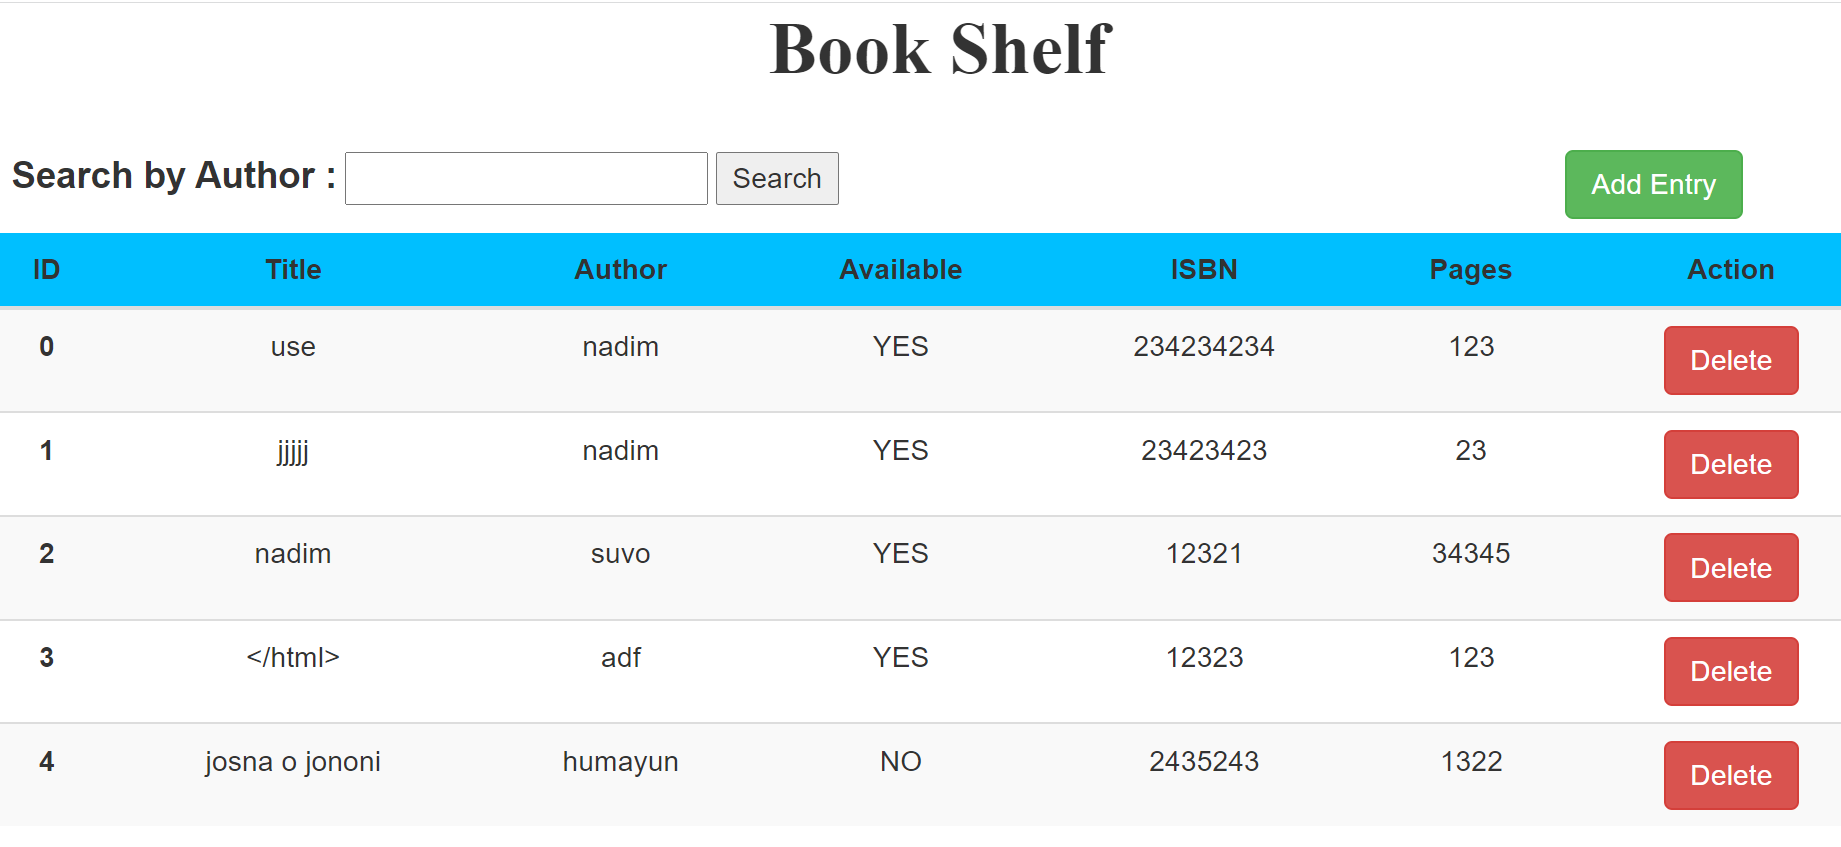
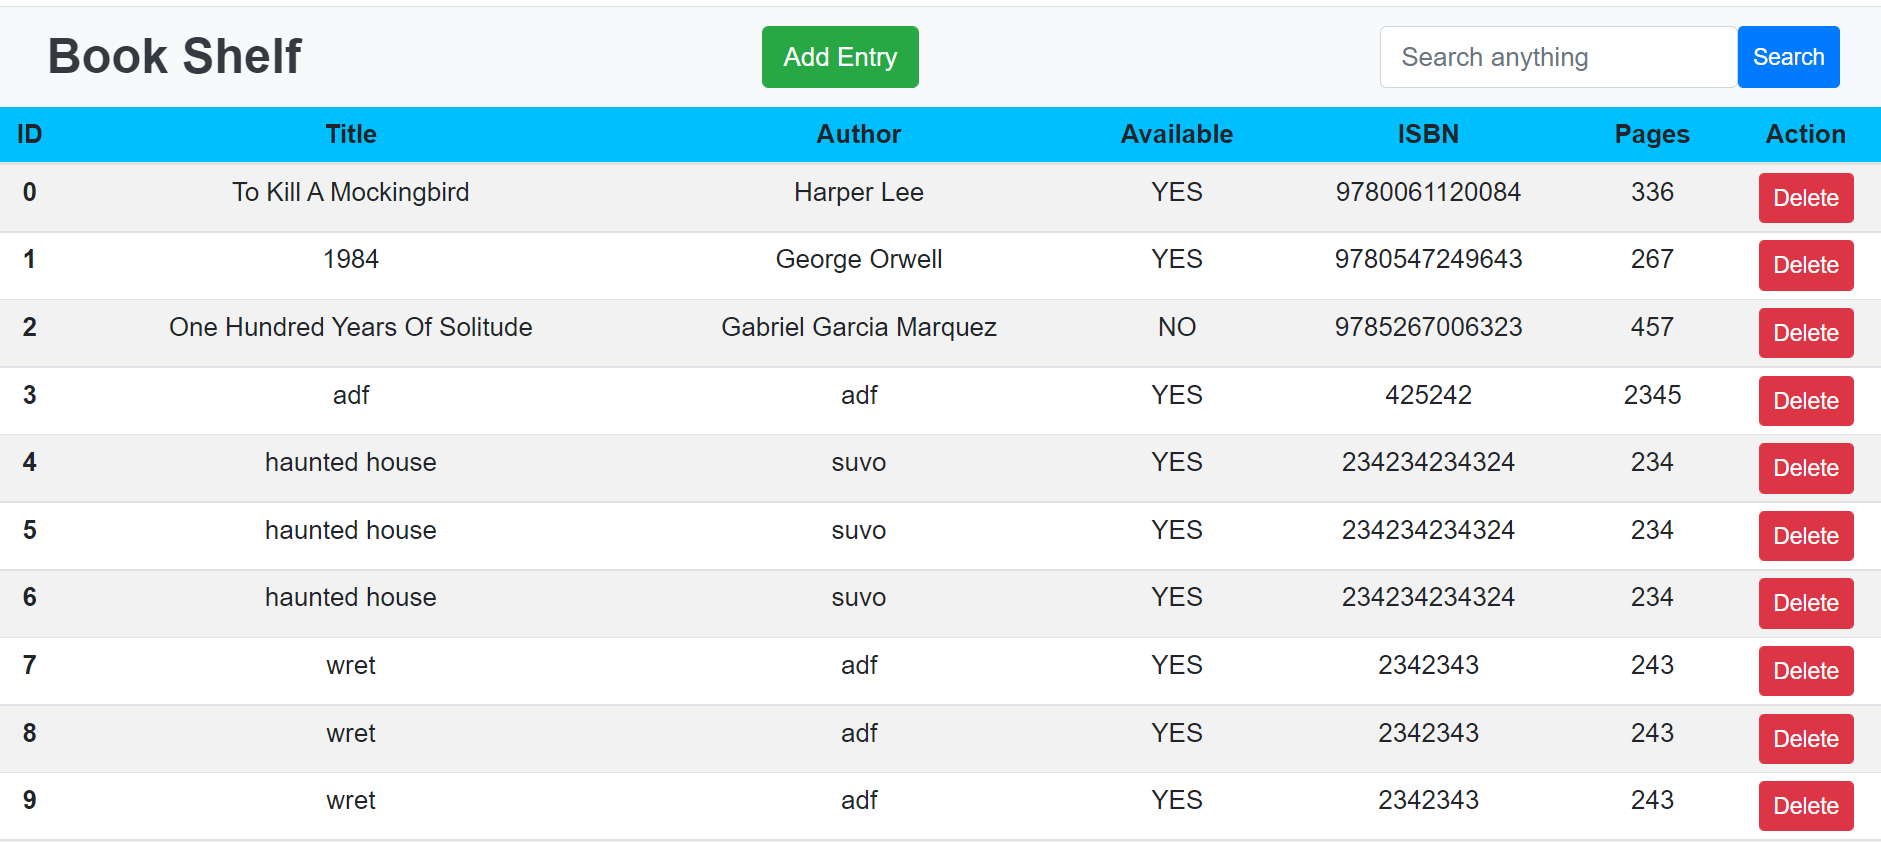
many chnages on UI

diff --git a/navbar.html b/navbar.html
@@ -1,0 +1,12 @@
+<nav class="sticky-top navbar navbar-light navbar-style bg-light">
+    <div class="container-fluid">
+        <a href="index.php" class="title text-dark"><b>Book Shelf</b></a>
+        <a class="add-entry" href="<?php echo 'create.php' ?>">
+            <button class="btn btn-success">Add Entry</button>
+        </a>
+        <form class="d-flex" action="search.php" method="POST">
+            <input class="form-control me-2" type="search" name="search" placeholder="Search anything" aria-label="Search">
+            <button class="btn btn-primary btn-sm" type="submit">Search</button>
+        </form>
+    </div>
+</nav>

diff --git a/style.css b/style.css
@@ -8,19 +8,22 @@
 }
 
 .title{
+  text-decoration: none;
+  font-family: 'Times New Roman', Times, serif;
+  font-size: 30px;
+}
+
+.title-create{
   text-align:center;
   font-family: 'Times New Roman', Times, serif;
   font-weight: bold;
   margin-bottom: 30px;
 }
 
-.search-bar{
-  width: 50%;
-  margin: auto;
-  margin-left: 10px;
-  margin-bottom: 10px;
-  float:left
+.table-container{
+  margin-top: -1px;
 }
+
 
 .add-entry{
   justify-content: left;
@@ -62,4 +65,10 @@
 
 .form-container{
   margin: 0px ;
+}
+
+.form-subm{
+  display: flex;
+  flex-direction: row;
+  justify-content: center;
 }

diff --git a/search.php b/search.php
@@ -15,13 +15,16 @@ $data = '';
 $entries = array();
 
 if (isset($_POST['search'])) {
-    $key1 = $_POST['search'];
+    $search_key = $_POST['search'];
     $option = 'title'; //$_POST['search_by'];
 
     foreach ($db as $key => $obj) :
-        if (strpos($obj[$option], $key1) !== false) {
-            array_push($entries, $db[$key]);
-        }
+        foreach ($obj as $key1 => $obj1) :
+            if (strpos(strtoupper($obj1), strtoupper($search_key)) !== false) {
+                array_push($entries, $db[$key]);
+                break; // add one entry for one list
+            }
+        endforeach;
     endforeach;
 }
 
@@ -37,14 +40,16 @@ if (isset($_POST['search'])) {
     <meta charset="UTF-8">
     <title>Book Store</title>
     <link rel="stylesheet" type="text/css" href="style.css" />
-    <link rel="stylesheet" href="https://maxcdn.bootstrapcdn.com/bootstrap/3.3.7/css/bootstrap.min.css" integrity="sha384-BVYiiSIFeK1dGmJRAkycuHAHRg32OmUcww7on3RYdg4Va+PmSTsz/K68vbdEjh4u" crossorigin="anonymous">
+    <link rel="stylesheet" href="https://stackpath.bootstrapcdn.com/bootstrap/4.4.1/css/bootstrap.min.css" integrity="sha384-Vkoo8x4CGsO3+Hhxv8T/Q5PaXtkKtu6ug5TOeNV6gBiFeWPGFN9MuhOf23Q9Ifjh" crossorigin="anonymous">    
 </head>
 
 <body>
+
+    <?php include 'navbar.html';?>
     
-    <h2 class="title">Search Results ...</h2>
+    <h5 class="title-search text-success mt-2 mb-0">Search results for : <?php echo $search_key;?></h5>
     
-    <div>
+    <div class="">
         <table class="table-main table table-striped table-sm">
             <thead class="table-head">
                 <tr>
@@ -74,15 +79,11 @@ if (isset($_POST['search'])) {
     </div>
 
     <!-- bootstrap scripts -->
-
-    <script src="https://code.jquery.com/jquery-3.4.1.slim.min.js"
-        integrity="sha384-J6qa4849blE2+poT4WnyKhv5vZF5SrPo0iEjwBvKU7imGFAV0wwj1yYfoRSJoZ+n" crossorigin="anonymous">
+    <script src="https://code.jquery.com/jquery-3.4.1.slim.min.js" integrity="sha384-J6qa4849blE2+poT4WnyKhv5vZF5SrPo0iEjwBvKU7imGFAV0wwj1yYfoRSJoZ+n" crossorigin="anonymous">
     </script>
-    <script src="https://cdn.jsdelivr.net/npm/popper.js@1.16.0/dist/umd/popper.min.js"
-        integrity="sha384-Q6E9RHvbIyZFJoft+2mJbHaEWldlvI9IOYy5n3zV9zzTtmI3UksdQRVvoxMfooAo" crossorigin="anonymous">
+    <script src="https://cdn.jsdelivr.net/npm/popper.js@1.16.0/dist/umd/popper.min.js" integrity="sha384-Q6E9RHvbIyZFJoft+2mJbHaEWldlvI9IOYy5n3zV9zzTtmI3UksdQRVvoxMfooAo" crossorigin="anonymous">
     </script>
-    <script src="https://stackpath.bootstrapcdn.com/bootstrap/4.4.1/js/bootstrap.min.js"
-        integrity="sha384-wfSDF2E50Y2D1uUdj0O3uMBJnjuUD4Ih7YwaYd1iqfktj0Uod8GCExl3Og8ifwB6" crossorigin="anonymous">
+    <script src="https://stackpath.bootstrapcdn.com/bootstrap/4.4.1/js/bootstrap.min.js" integrity="sha384-wfSDF2E50Y2D1uUdj0O3uMBJnjuUD4Ih7YwaYd1iqfktj0Uod8GCExl3Og8ifwB6" crossorigin="anonymous">
     </script>
 </body>
 

diff --git a/index.php b/index.php
@@ -17,27 +17,28 @@ if (file_exists('db.json')) {
 
 <head>
     <meta charset="UTF-8">
-    <title>Book Store</title>
+    <title>Book Shelf</title>
     <link rel="stylesheet" type="text/css" href="style.css" />
     <link rel="stylesheet" href="https://stackpath.bootstrapcdn.com/bootstrap/4.4.1/css/bootstrap.min.css" integrity="sha384-Vkoo8x4CGsO3+Hhxv8T/Q5PaXtkKtu6ug5TOeNV6gBiFeWPGFN9MuhOf23Q9Ifjh" crossorigin="anonymous">
 </head>
 
 <body>
 
-    <h1 class="title">Book Shelf</h1>
+    <?php include 'navbar.html';?>
+
+  
+    <!-- <h1 class="title">Book Shelf</h1> -->
 
 
-    <div class="container search-pr">
+    <!-- <div class="container search-pr">
         <div class="row">
-            <div class="col-sm-4">
-            <form action="search.php" method="POST">
-                <div class="input-group mb-3">
-                    <input type="text" name="search" placeholder="Search by title" >
-                    <input type="submit" class="btn btn-primary" type="button" value="Search"></input>
-                </div>
-            </form>
-            </div>
-            <div class="col-sm-6">
+            <div class="col-sm-10">
+                <form action="search.php" method="POST">
+                    <div class="input-group mb-3">
+                        <input type="text" name="search" placeholder="Search anything">
+                        <input type="submit" class="btn btn-primary" type="button" value="Search"></input>
+                    </div>
+                </form>
             </div>
             <div class="col-sm-2">
                 <a class="add-entry" href="<?php echo 'create.php' ?>">
@@ -45,26 +46,8 @@ if (file_exists('db.json')) {
                 </a>
             </div>
         </div>
-    </div>
-
-    <!-- 
-    <div class="search-bar ">
-        <form action="search.php" method="post">
-
-            <label style="font-size: large;">Search by Author : </label>
-            <input type="text" class="input-field" name="search" />
-            <input type="submit" class="input-field" value="Search" />
-        </form>
-    </div>
-
-    <div class="create-btn">
-        <a href="<?php echo 'create.php' ?>">
-            <button class="btn btn-success">Add Entry</button>
-        </a>
     </div> -->
-
-    <br>
-    <div>
+    <div class="table-container">
         <table class="table-main table table-striped table-sm">
             <thead class="table-head">
                 <tr>

diff --git a/create.php b/create.php
@@ -23,6 +23,8 @@ if (isset($_GET['title'])) {
     $db_enc = json_encode($db);
     file_put_contents('db.json', $db_enc);
 
+    $added = true;
+
     header('Location: index.php');
 }
 
@@ -41,7 +43,9 @@ if (isset($_GET['title'])) {
 
 <body class="create-body">
 
-    <h1 class="title"> Enter book informations</h1>
+    <?php include 'navbar.html';?>
+
+    <h1 class="title-create"> Enter book informations</h1>
 
     <!-- Styled -->
 
@@ -79,7 +83,7 @@ if (isset($_GET['title'])) {
             </div>
 
 
-            <button type="submit" class="form-sub btn btn-success">Create</button>
+            <button type="submit" class="form-sub btn btn-success ">Create</button>
         </form>
 
     </div>
